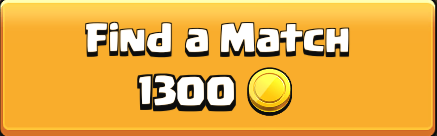
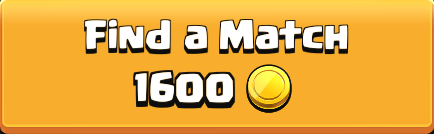
Update template & koordinat untuk UI event Treasure Hunt 2026-11

diff --git a/bot.py b/bot.py
@@ -87,19 +87,19 @@ class Config:
 
     # --- template state (1080p) ---
     TPL = {
-        "HOME":  (asset_path("templates", "btn_battle.png"), (20, 880, 225, 1064)),
-        "MENU":  (asset_path("templates", "btn_find.png"),   (95, 710, 565, 890)),
+        "HOME":  (asset_path("templates", "btn_battle.png"), (0, 850, 270, 1080)),
+        "MENU":  (asset_path("templates", "btn_find.png"),   (60, 700, 560, 900)),
         "ARMY":  (asset_path("templates", "btn_attack.png"), (1500, 915, 1890, 1010)),
     }
     TPL_THRESHOLD = 0.80
 
     # --- koordinat tetap (1080p, terukur) ---
     # slot pasukan (pusat kartu, bar bawah; terukur live)
-    BTN_BATTLE   = (122, 972)    # tombol "Battle" di home
-    BTN_FIND     = (330, 790)    # "Find a Match"
+    BTN_BATTLE   = (127, 959)    # tombol "Battle" di home (tengah blob gold 29..225 / 860..1058)
+    BTN_FIND     = (295, 803)    # "Find a Match 1600" kartu kiri (78..512 / 736..870)
     BTN_ATTACK   = (1696, 964)   # "Attack!" hijau (ARMY panel)
     BTN_NEXT     = (1750, 775)   # Next: pusat tombol terukur (template btn_next center 1749,769)
-    BTN_END      = (137, 800)    # "End Battle" merah: pusat blob terukur (28..247, 774..842)
+    BTN_END      = (137, 827)    # "End Battle" merah: pusat blob terukur (28..246, 790..864)
     BTN_RETURN   = (961, 932)    # "Return Home" di layar hasil
     AUTO_SPEED_UP: bool = True
     BTN_SPEED_TPL = asset_path("templates", "btn_speed_1x.png")
@@ -120,9 +120,9 @@ class Config:
     # Urutan deploy: (nama_unit, jumlah_tap, jenis)
     # jenis: "troop", "siege", "hero", "spell"
     ARMY_ORDER = [
-        ("edrag", 10, "troop"),
+        ("dragon", 10, "troop"),
+        ("balloon", 1, "troop"),
         ("wall_wrecker", 1, "siege"),
-        ("minion_prince", 1, "hero"),
         ("king", 1, "hero"),
         ("queen", 1, "hero"),
         ("warden", 1, "hero"),
@@ -130,18 +130,20 @@ class Config:
     ]
     SPELL_UNIT = "lightning"
     TOTAL_LIGHTNING = 11
+
     # Koordinat cadangan jika template belum dicrop / tidak match
+    # (pusat kartu bar bawah 1080p: 121x135 px, pitch 150 px dari x=196)
     FALLBACK_SLOTS = {
-        "edrag": (207, 975),
-        "wall_wrecker": (377, 975),
-        "minion_prince": (529, 975),
-        "king": (529, 975),
-        "queen": (675, 975),
-        "warden": (820, 975),
-        "rc": (950, 975),
-        "lightning": (1126, 975),
+        "dragon": (196, 967),
+        "balloon": (346, 967),
+        "wall_wrecker": (496, 967),
+        "king": (646, 967),
+        "queen": (796, 967),
+        "warden": (946, 967),
+        "rc": (1096, 967),
+        "lightning": (1246, 967),
     }
-    HERO_CARDS = [(529, 975), (675, 975), (820, 975), (950, 975)]   # fallback hero cards
+    HERO_CARDS = [(646, 967), (796, 967), (946, 967), (1096, 967)]   # fallback hero cards
     ABILITY_DELAYS = (45,)          # detik setelah deploy untuk ulti hero
     # kuadran core base (base selalu kira-kira di tengah layar saat scout)
     LIGHTNING_SPOTS = [(780, 390), (1090, 390), (780, 650), (1090, 650)]
@@ -476,7 +478,7 @@ def detect_army_cards(img, tpl_dir=Config.UNIT_TPL_DIR, thresh=Config.UNIT_THRES
 
 
 def find_air_defenses(img, tpl_dir=Config.AD_TPL_DIR, threshold=Config.AD_THRESHOLD):
-    """Deteksi bangunan Air Defense lawan via multi-scale masked template matching (Level 7-13)."""
+    """Deteksi bangunan Air Defense lawan via multi-scale masked template matching (Level 7-16)."""
     if not os.path.isdir(tpl_dir):
         return []
     x_off, y_off = 280, 130
@@ -729,7 +731,8 @@ class Bot:
             if spells:
                 sx, sy = max(spells, key=lambda v: v[0])[:2]
             else:
-                sx, sy = Config.FALLBACK_SLOTS.get(Config.SPELL_UNIT, (1126, 975))
+                fb = Config.FALLBACK_SLOTS
+                sx, sy = fb.get(Config.SPELL_UNIT, (1126, 975))
 
         spots = []
         if img is not None:
@@ -759,14 +762,18 @@ class Bot:
         if side not in Config.ATTACK_LINES and side != "FOUR_SIDES":
             side = "KIRI_BAWAH"
 
-        logging.info("deploy strategi: %s (sisi aktif: %s)", strat, side)
+        fallback_slots = Config.FALLBACK_SLOTS
+
+        army_order = list(Config.ARMY_ORDER)
+
+        logging.info("deploy strategi: %s (sisi utama: %s)", strat, side)
 
         deployed_slots = set()
-        for name, taps, utype in Config.ARMY_ORDER:
+        for name, taps, utype in army_order:
             if name in card_map:
                 sx, sy = card_map[name][0], card_map[name][1]
-            elif name in Config.FALLBACK_SLOTS:
-                sx, sy = Config.FALLBACK_SLOTS[name]
+            elif name in fallback_slots:
+                sx, sy = fallback_slots[name]
                 # Jika ada unit lain yang sudah terdeteksi di slot horizontal ini, lewati
                 if any(other != name and other in card_map and abs(card_map[other][0] - sx) < 40 for other in card_map):
                     logging.info("kartu '%s' slot (%d, %d) diisi unit terdeteksi lain, skip", name, sx, sy)
@@ -784,7 +791,10 @@ class Bot:
             self.adb.tap(sx + np.random.randint(-4, 4), sy + np.random.randint(-4, 4))
             time.sleep(0.30)
 
-            if side == "FOUR_SIDES":
+            active_side = side
+            logging.info("deploy unit '%s' (%d taps, jenis: %s) di sisi: %s", name, taps, utype, active_side)
+
+            if active_side == "FOUR_SIDES":
                 all_sides = list(Config.ATTACK_LINES.keys())
                 total_taps = taps + 3 if utype == "troop" else max(3, taps)
                 for tap_idx in range(total_taps):
@@ -796,9 +806,9 @@ class Bot:
                     time.sleep(0.10)
             else:
                 # 1 Sisi: Berbaris RATA sepanjang garis perimeter
-                p1, p2 = Config.ATTACK_LINES[side]
+                p1, p2 = Config.ATTACK_LINES[active_side]
                 if utype == "troop":
-                    # Taps ekstra (taps + 4) agar seluruh naga keluar rata tanpa tertahan
+                    # Taps ekstra (taps + 4) agar seluruh unit keluar rata tanpa tertahan
                     points = get_line_points(p1, p2, taps + 4)
                     for pt in points:
                         self.adb.tap(pt[0], pt[1])
@@ -847,13 +857,14 @@ class Bot:
         BK/AQ yang ability-nya bisa 2x.
         """
         card_map = card_map or {}
+        fb = Config.FALLBACK_SLOTS
         hero_slots = []
         for name, _, utype in Config.ARMY_ORDER:
             if utype == "hero":
                 if name in card_map:
                     hero_slots.append((card_map[name][0], card_map[name][1]))
-                elif name in Config.FALLBACK_SLOTS:
-                    sx, sy = Config.FALLBACK_SLOTS[name]
+                elif name in fb:
+                    sx, sy = fb[name]
                     if not any(other != name and other in card_map and abs(card_map[other][0] - sx) < 40 for other in card_map):
                         hero_slots.append((sx, sy))
 

diff --git a/README.md b/README.md
@@ -20,7 +20,7 @@
 | 🎯 **Filter Looting** | **5 Mode Evaluasi (Default: `GOLD_AND_ELIXIR`)** | Pilihan mode: `GOLD_AND_ELIXIR` (keduanya wajib tembus), `GOLD_OR_ELIXIR`, `GOLD_ONLY`, `ELIXIR_ONLY`, `DE_ONLY`. Nilai acuan default: **999.999 Gold**, **999.999 Elixir**, dan **5.000 Dark Elixir** dengan pembersihan spasi ribuan otomatis. |
 | ⚔ **Penyerangan** | **Smart Attack (Deteksi Storage Dinamis)** | Memindai posisi bangunan Gold Storage, Elixir Storage, dan Dark Elixir Storage lawan (`templates/storages/`) via masked template matching multi-scale dan verifikasi warna inti di 4 kuadran base. Sisi terpadat otomatis diserang (prioritas Dark Elixir **2.5×**). |
 | 📏 **Formasi Serang** | **Line Deployment (Rata Sisi Luar)** | Pasukan diturunkan **berbaris rata** di sepanjang perimeter luar (`KIRI_ATAS`, `KANAN_ATAS`, `KIRI_BAWAH`, `KANAN_BAWAH`, atau `FOUR_SIDES`) untuk penetrasi merata, bukan bertumpuk di satu titik pixel. |
-| ⚡ **Anti-Air Defeat** | **Pinpoint Air Defense Targeting** | 11 Lightning Spell otomatis dijatuhkan **sebelum pasukan turun** tepat ke lokasi Air Defense musuh Level 7–13 yang terdeteksi via template matching ber-mask transparansi (`templates/ad/`). |
+| ⚡ **Anti-Air Defeat** | **Pinpoint Air Defense Targeting** | 11 Lightning Spell otomatis dijatuhkan **sebelum pasukan turun** tepat ke lokasi Air Defense musuh Level 7–16 yang terdeteksi via template matching ber-mask transparansi (`templates/ad/`). |
 | 🛡 **Anti-Macet** | **Fail-Proof Troop & Hero Deployment** | Posisi kartu dideteksi secara visual di bar bawah. Jika deteksi terhalang animasi/pet/skin, bot otomatis menggunakan **fallback coordinate slot** anti-skip dengan proteksi anti-double-tap (misal Minion Prince vs King). Seluruh naga, siege, dan hero dijamin **100% turun ke arena**. |
 | 👑 **Kemampuan Hero** | **Dual-Stage Hero Abilities** | Jurus/kemampuan aktif seluruh hero yang diturunkan dipicu secara berkala pada jeda **+30 detik** dan **+62 detik** (untuk hero dengan 2x pemakaian) dengan perlindungan pembatalan otomatis jika battle selesai duluan. |
 | ⏩ **Akselerasi** | **Auto Speed-Up 4x** | Otomatis mendeteksi tombol kecepatan `1x` hijau di paruh bawah layar saat pertempuran berlangsung dan langsung melakukan tap 2x untuk mempercepat durasi pertempuran ke `4x`. |
